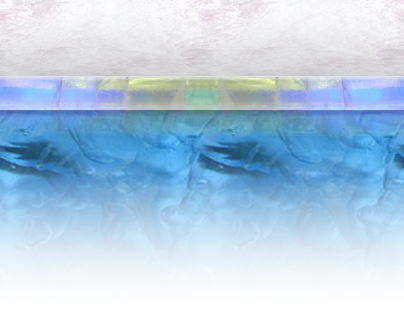
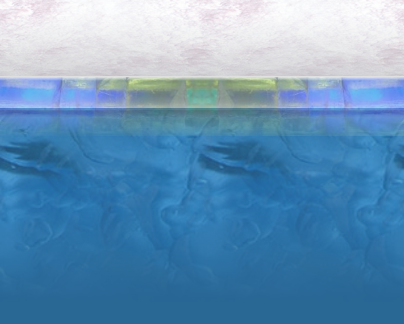
skin updates en board user interface updates

diff --git a/fryingdutch/public/stylesheets/frozen/default_colors.css b/fryingdutch/public/stylesheets/frozen/default_colors.css
@@ -8,11 +8,15 @@ body {
 }
 
 .outer-wrapper, .header {
-	background: #ffffff url(/images/frozen/top-tile.png) top center repeat-x;
+	background: #296795 url(/images/frozen/top-tile.png) top center repeat-x;
 }
 
-.footer, .footer .body {
-	background: #000000;
+.footer {
+	background: #000000 url(/images/frozen/footer.png) top center repeat-x;
+}
+
+.footer .body {
+	background: none;
 }
 
 .footer {

diff --git a/fryingdutch/public/stylesheets/shared/board.css b/fryingdutch/public/stylesheets/shared/board.css
@@ -44,4 +44,15 @@ table.topic-list tbody td.last_post {
 }
 
 
+.bigtext {
+	width: 100%;
+}
 
+.bigtext.empty {
+	
+}
+
+.profile_avatar {
+	float: left;
+	padding-right: 10px;
+}

diff --git a/fryingdutch/app/helpers/boards_helper.rb b/fryingdutch/app/helpers/boards_helper.rb
@@ -5,7 +5,7 @@ module BoardsHelper
     while board = board.parent       
       items << link_to(h(board.name), board)      
     end   
-    items << link_to("alle boards", boards_path)
+    items << link_to("Alle fora", boards_path)
     items.reverse.join " \\ "
   end
   

diff --git a/fryingdutch/test/functional/print_item_categories/print_item_controller_test.rb b/fryingdutch/test/functional/print_item_categories/print_item_controller_test.rb
@@ -1,0 +1,8 @@
+require 'test_helper'
+
+class PrintItemCategories::PrintItemControllerTest < ActionController::TestCase
+  # Replace this with your real tests.
+  test "the truth" do
+    assert true
+  end
+end
